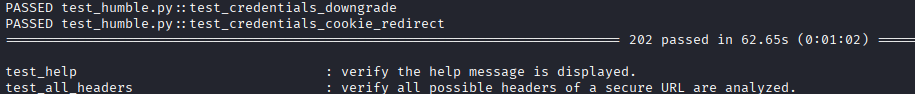
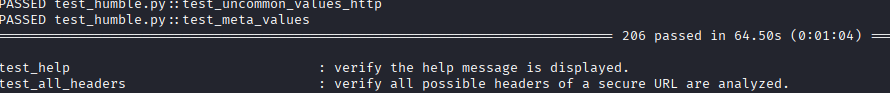
Feature: 4 new unit tests and branch coverage
'test_clean_values', 'test_uncommon_values', 'test_uncommon_values_http' and  'test_meta_values'.

Branch coverage enabled ('--cov-branch')

diff --git a/tests/test_humble.py b/tests/test_humble.py
@@ -90,7 +90,9 @@ EXTENDED_TAGS = ["[test_python_version]", "[test_missing_arguments]",
                  "[test_export_path_kept]", "[test_export_filename]",
                  "[test_export_html_scheme]", "[test_export_pdf_markers]",
                  "[test_credentials_downgrade]",
-                 "[test_credentials_cookie_redirect]"]
+                 "[test_credentials_cookie_redirect]", "[test_clean_values]",
+                 "[test_uncommon_values]", "[test_uncommon_values_http]",
+                 "[test_meta_values]"]
 HUMBLE_TESTS_DIR = Path(__file__).parent
 HUMBLE_TEMP_HISTORY = HUMBLE_TESTS_DIR / "analysis_h.txt"
 HUMBLE_TEMP_PREFIX = "humble_"
@@ -107,6 +109,7 @@ HUMBLE_TEST_FILES = {
     "GRADE_D": "headers_test_grade_d.txt",
     "HAR_ENTRIES": "headers_test_entries.har",
     "CHALLENGE": "headers_test_challenge.txt",
+    "CLEAN_VALUES": "headers_test_clean_values.txt",
     "CLIENT_ERROR": "client_error_test.txt",
     "CLOUDFLARE": "headers_test_cloudflare.txt",
     "COOKIE_PARTITIONED": "headers_test_cookie_partitioned.txt",
@@ -131,6 +134,8 @@ HUMBLE_TEST_FILES = {
     "PERFECT_OWASP": "headers_test_perfect_owasp.txt",
     "REDIRECTS": "headers_test_redirects.txt",
     "REPORT_ONLY": "headers_test_report_only.txt",
+    "UNCOMMON_VALUES": "headers_test_uncommon_values.txt",
+    "UNCOMMON_VALUES_HTTP": "headers_test_uncommon_values_http.txt",
     "UNICODE": "headers_test_unicode.txt",
 }
 CSP_FALLBACK_MISSING = ("child-src", "connect-src", "img-src", "object-src",
@@ -178,7 +183,9 @@ META_BODY = (
     b"default-src 'self' https://sandbox.example.com; frame-ancestors 'none'; "
     b'report-uri /csp">'
     b'<meta http-equiv="Content-Security-Policy-Report-Only" '
-    b'content="default-src *"></head></html>'
+    b'content="default-src *">'
+    b'<meta http-equiv="Content-Type" content="text/html; charset=latin1">'
+    b'<meta http-equiv="X-UA-Compatible" content="IE=7"></head></html>'
 )
 
 # Raw responses of a hostile or broken server, served by '/hostile/<name>'
@@ -1687,6 +1694,83 @@ def test_credentials_cookie_redirect():
     session.rebuild_auth(other_host, response)
     assert same_host.headers.get("Cookie") == "session=1"
     assert "Cookie" not in other_host.headers
+
+
+def test_clean_values():
+    """Verify legal values of several headers raise no findings."""
+    result = subprocess.run(
+        [sys.executable, HUMBLE_MAIN_FILE, "-u", TEST_URLS[2], "-if",
+         PATHS["CLEAN_VALUES"]],
+        capture_output=True,
+        text=True,
+        timeout=15,
+        encoding="utf-8",
+        errors="replace",
+        check=False,
+    )
+    output = result.stdout + result.stderr
+    assert "Deprecated/Insecure headers:   0" in output
+
+
+def test_uncommon_values():
+    """Verify findings of rarely seen header values are reported."""
+    result = subprocess.run(
+        [sys.executable, HUMBLE_MAIN_FILE, "-u", TEST_URLS[2], "-if",
+         PATHS["UNCOMMON_VALUES"]],
+        capture_output=True,
+        text=True,
+        timeout=15,
+        encoding="utf-8",
+        errors="replace",
+        check=False,
+    )
+    output = result.stdout + result.stderr
+    assert "Attribution-Reporting-Register-Source (Deprecated" in output
+    assert "Attribution-Reporting-Register-Trigger (Deprecated" in output
+    assert "Content-Security-Policy (No Valid Directives)" in output
+    assert "Content-Security-Policy (Incorrect Values)" in output
+    assert "Content-Security-Policy (Unsafe Functionality)" in output
+    assert "Set-Cookie (Invalid Prefixes)" in output
+    assert "Strict-Transport-Security (Required Values)" in output
+
+
+def test_uncommon_values_http():
+    """Verify findings of rarely seen header values in an analysis via HTTP.
+
+    The cookie of the fixture lacks 'Secure', so it must not be reported as
+    sent through an insecure scheme.
+    """
+    result = subprocess.run(
+        [sys.executable, HUMBLE_MAIN_FILE, "-u", TEST_URLS[3], "-if",
+         PATHS["UNCOMMON_VALUES_HTTP"]],
+        capture_output=True,
+        text=True,
+        timeout=15,
+        encoding="utf-8",
+        errors="replace",
+        check=False,
+    )
+    output = result.stdout + result.stderr
+    assert "Proxy-Authenticate (Unsafe Value)" in output
+    assert "Strict-Dynamic (Incorrect Header)" in output
+    assert "Set-Cookie (Insecure Scheme)" not in output
+
+
+def test_meta_values():
+    """Verify the 'Content-Type' and 'X-UA-Compatible' checks of the body."""
+    result = subprocess.run(
+        [sys.executable, HUMBLE_MAIN_FILE, "-u",
+         f"{LOCAL_SERVER_URL}/meta/200"],
+        capture_output=True,
+        text=True,
+        timeout=15,
+        encoding="utf-8",
+        errors="replace",
+        check=False,
+    )
+    output = result.stdout + result.stderr
+    assert "Content-Type (Incorrect Value - Response body)" in output
+    assert "X-UA-Compatible (Incorrect Value - Response body)" in output
 
 
 def delete_export_files(extension, ko_msg):

diff --git a/README.md b/README.md
@@ -22,7 +22,7 @@
 <a target="_blank" href="https://github.com/rfc-st/humble/actions/workflows/bandit-security-scan.yml" title="Vulnerability analysis with Bandit"><img src="https://github.com/rfc-st/humble/actions/workflows/bandit-security-scan.yml/badge.svg"></a>
 <a target="_blank" href="https://github.com/rfc-st/humble/actions/workflows/codeql-analysis.yml?query=workflow%3ACodeQL" title="Vulnerability analysis with CodeQL"><img src="https://github.com/rfc-st/humble/workflows/CodeQL/badge.svg"></a>
 <a target="_blank" href="https://humble.readthedocs.io/en/latest/" title="Status of documentation in 'Read The Docs'"><img src="https://img.shields.io/badge/documentation-passing-32bd50?labelColor=343b41"></a>
-<a target="_blank" href="https://github.com/rfc-st/humble/?tab=readme-ov-file#unit-tests" title="Code coverage with pytest-cov"><img src="https://img.shields.io/badge/code%20coverage-99%25-32bd50?labelColor=343b41"></a>
+<a target="_blank" href="https://github.com/rfc-st/humble/?tab=readme-ov-file#unit-tests" title="Code coverage with pytest-cov"><img src="https://img.shields.io/badge/coverage-statements%2099%25%20%7C%20branches%2097%25-32bd50?labelColor=343b41"></a>
 <a target="_blank" href="https://github.com/rfc-st/humble/actions/workflows/vulture.yml" title="Dead Code analysis with vulture"><img src="https://img.shields.io/badge/vulture-passing-32bd50?labelColor=343b41"></a>
 <a target="_blank" href="https://github.com/rfc-st/humble/?tab=readme-ov-file#ai-assisted-review" title="How AI is used to review this tool"><img src="https://img.shields.io/badge/AI--assisted%20review-Claude%20Fable%205.2-blue?labelColor=343b41"></a>
 <a target="_blank" href="https://www.bestpractices.dev/projects/9543" title="Analysis of OpenSSF best practices"><img src="https://www.bestpractices.dev/projects/9543/badge"></a>
@@ -484,7 +484,7 @@ $ cd tests
 ```
 $ cd <humble dir>
 $ cd tests
-$ pytest test_humble.py --cov-config=.coveragerc --cov=.. --cov-report=html --tb=no -rA -q -v -W ignore -p no:cacheprovider
+$ pytest test_humble.py --cov-config=.coveragerc --cov=.. --cov-branch --cov-report=html --tb=no -rA -q -v -W ignore -p no:cacheprovider
 $ cd humble_coverage_report
 Open the index.html file in a browser.
 ```
@@ -502,13 +502,14 @@ Open the index.html file in a browser.
 >
 > - `--cov-config=.coveragerc`: Specifies the coverage configuration file
 > - `--cov=..`: Specifies what code to measure coverage for
+> - `--cov-branch`: Enables branch coverage
 > - `--cov-report=html`: Defines the coverage report format
 > - `--tb=no`: Does not show tracebacks for failed tests
 > - `-rA`: Show all extra test summary info
 > - `-q`: Quiet mode (during the analysis)
 > - `-v`: Verbose mode (after the analysis)
 > - `-W ignore`: Ignore all warnings during test execution
-> - `--p no:cacheprovider`: Prevents creation of `.pytest_cache`
+> - `-p no:cacheprovider`: Prevents creation of `.pytest_cache`
 
 ## Global humble.skip
 
